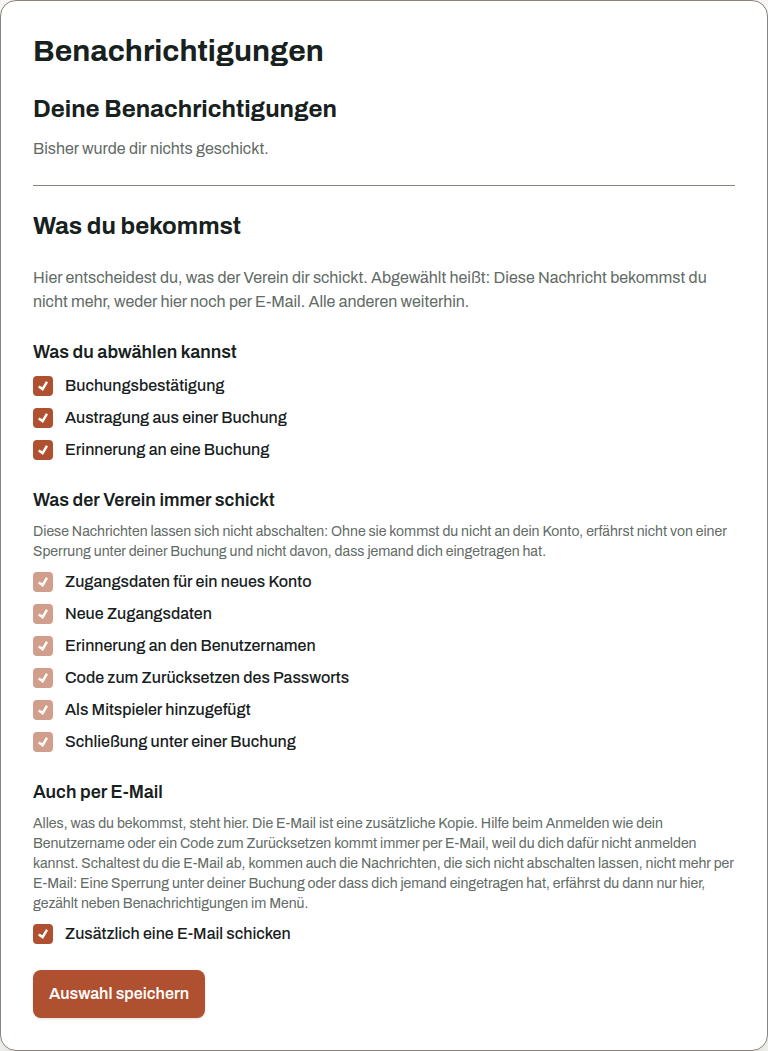
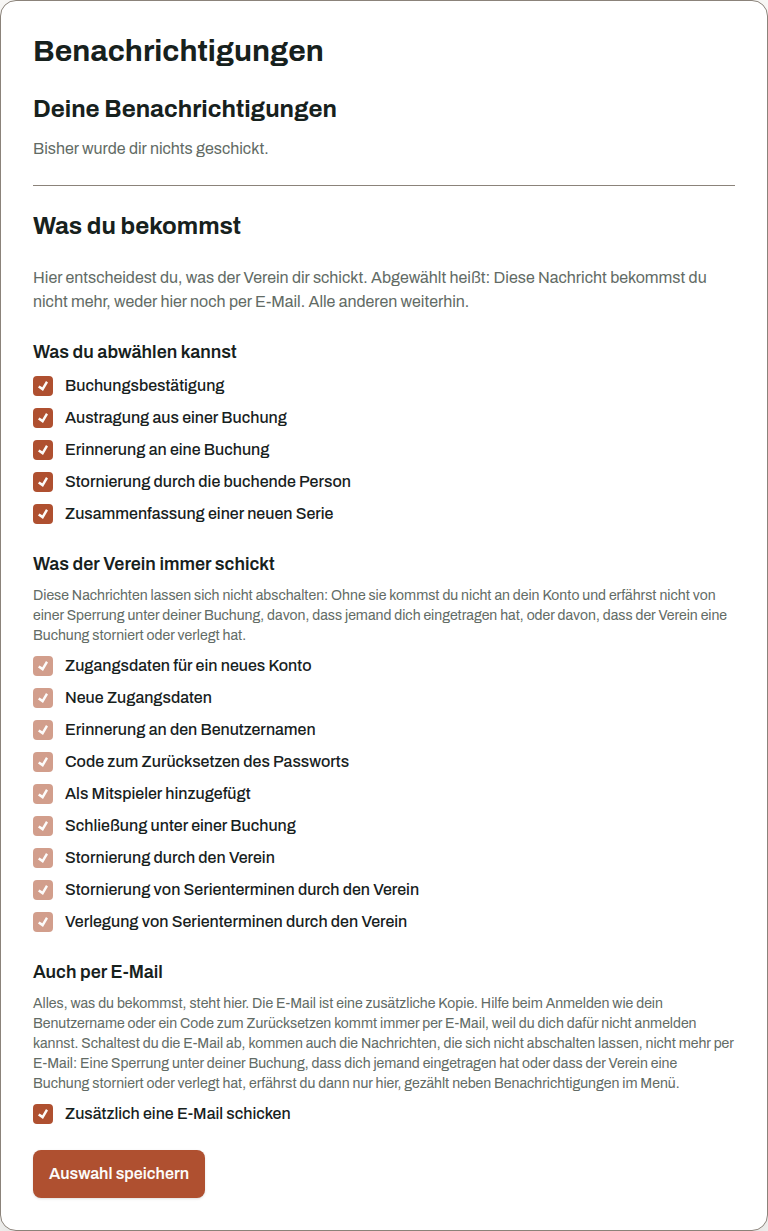
test: refresh the notification baselines for the new message kinds
The choice list now names the club's cancellations and series changes,
and its explanations say they cannot be switched off.

Changed region(s): [[0.0312, 0.0304, 0.9688, 0.9743]]

diff --git a/frontend/src/locales/de.ts b/frontend/src/locales/de.ts
@@ -1125,7 +1125,7 @@ const de = {
   "myMessages.description": "Hier entscheidest du, was der Verein dir schickt. Abgewählt heißt: Diese Nachricht bekommst du nicht mehr, weder hier noch per E-Mail. Alle anderen weiterhin.",
   "myMessages.declinable": "Was du abwählen kannst",
   "myMessages.mandatory": "Was der Verein immer schickt",
-  "myMessages.mandatoryReason": "Diese Nachrichten lassen sich nicht abschalten: Ohne sie kommst du nicht an dein Konto, erfährst nicht von einer Sperrung unter deiner Buchung und nicht davon, dass jemand dich eingetragen hat.",
+  "myMessages.mandatoryReason": "Diese Nachrichten lassen sich nicht abschalten: Ohne sie kommst du nicht an dein Konto und erfährst nicht von einer Sperrung unter deiner Buchung, davon, dass jemand dich eingetragen hat, oder davon, dass der Verein eine Buchung storniert oder verlegt hat.",
   "myMessages.save": "Auswahl speichern",
   "myMessages.saved": "Deine Auswahl wurde gespeichert.",
   "myMessages.savedStateShown": "Angezeigt sind die Einstellungen, die jetzt gespeichert sind.",
@@ -1133,7 +1133,7 @@ const de = {
   "notification.notFound": "Diese Benachrichtigung ist nicht an dich gerichtet.",
   "myMessages.settings": "Was du bekommst",
   "myMessages.channels": "Auch per E-Mail",
-  "myMessages.channelsReason": "Alles, was du bekommst, steht hier. Die E-Mail ist eine zusätzliche Kopie. Hilfe beim Anmelden wie dein Benutzername oder ein Code zum Zurücksetzen kommt immer per E-Mail, weil du dich dafür nicht anmelden kannst. Schaltest du die E-Mail ab, kommen auch die Nachrichten, die sich nicht abschalten lassen, nicht mehr per E-Mail: Eine Sperrung unter deiner Buchung oder dass dich jemand eingetragen hat, erfährst du dann nur hier, gezählt neben Benachrichtigungen im Menü.",
+  "myMessages.channelsReason": "Alles, was du bekommst, steht hier. Die E-Mail ist eine zusätzliche Kopie. Hilfe beim Anmelden wie dein Benutzername oder ein Code zum Zurücksetzen kommt immer per E-Mail, weil du dich dafür nicht anmelden kannst. Schaltest du die E-Mail ab, kommen auch die Nachrichten, die sich nicht abschalten lassen, nicht mehr per E-Mail: Eine Sperrung unter deiner Buchung, dass dich jemand eingetragen hat oder dass der Verein eine Buchung storniert oder verlegt hat, erfährst du dann nur hier, gezählt neben Benachrichtigungen im Menü.",
   "myMessages.channel.EMAIL": "Zusätzlich eine E-Mail schicken",
   "notifications.title": "Deine Benachrichtigungen",
   "notifications.empty": "Bisher wurde dir nichts geschickt.",

diff --git a/frontend/src/locales/en.ts b/frontend/src/locales/en.ts
@@ -1127,7 +1127,7 @@ const en: Record<keyof typeof de, string> = {
   "myMessages.description": "Choose what the club sends you. An unchecked kind no longer reaches you, neither here nor by email; everything else keeps arriving.",
   "myMessages.declinable": "What you can switch off",
   "myMessages.mandatory": "What the club always sends",
-  "myMessages.mandatoryReason": "These cannot be switched off: without them you cannot reach your account, you would not hear about a closure under your booking, and you would not hear that somebody recorded you in one.",
+  "myMessages.mandatoryReason": "These cannot be switched off: without them you cannot reach your account, and you would not hear about a closure under your booking, that somebody recorded you in one, or that the club cancelled or moved one.",
   "myMessages.save": "Save choice",
   "myMessages.saved": "Your choice was saved.",
   "myMessages.savedStateShown": "The settings shown are the ones saved now.",
@@ -1135,7 +1135,7 @@ const en: Record<keyof typeof de, string> = {
   "notification.notFound": "This notification is not addressed to you.",
   "myMessages.settings": "What you receive",
   "myMessages.channels": "Also by email",
-  "myMessages.channelsReason": "Everything you receive appears here. Email is an extra copy. Sign-in help such as your username or a reset code is always mailed, because you cannot sign in to read it here. Switching email off also stops the mail for notices you cannot switch off: a closure under your booking, or somebody recording you in one, then reaches you only here, counted beside Notifications in the menu.",
+  "myMessages.channelsReason": "Everything you receive appears here. Email is an extra copy. Sign-in help such as your username or a reset code is always mailed, because you cannot sign in to read it here. Switching email off also stops the mail for notices you cannot switch off: a closure under your booking, somebody recording you in one, or the club cancelling or moving one then reaches you only here, counted beside Notifications in the menu.",
   "myMessages.channel.EMAIL": "Send me an email as well",
   "notifications.title": "Your notifications",
   "notifications.empty": "Nothing has been sent to you yet.",
